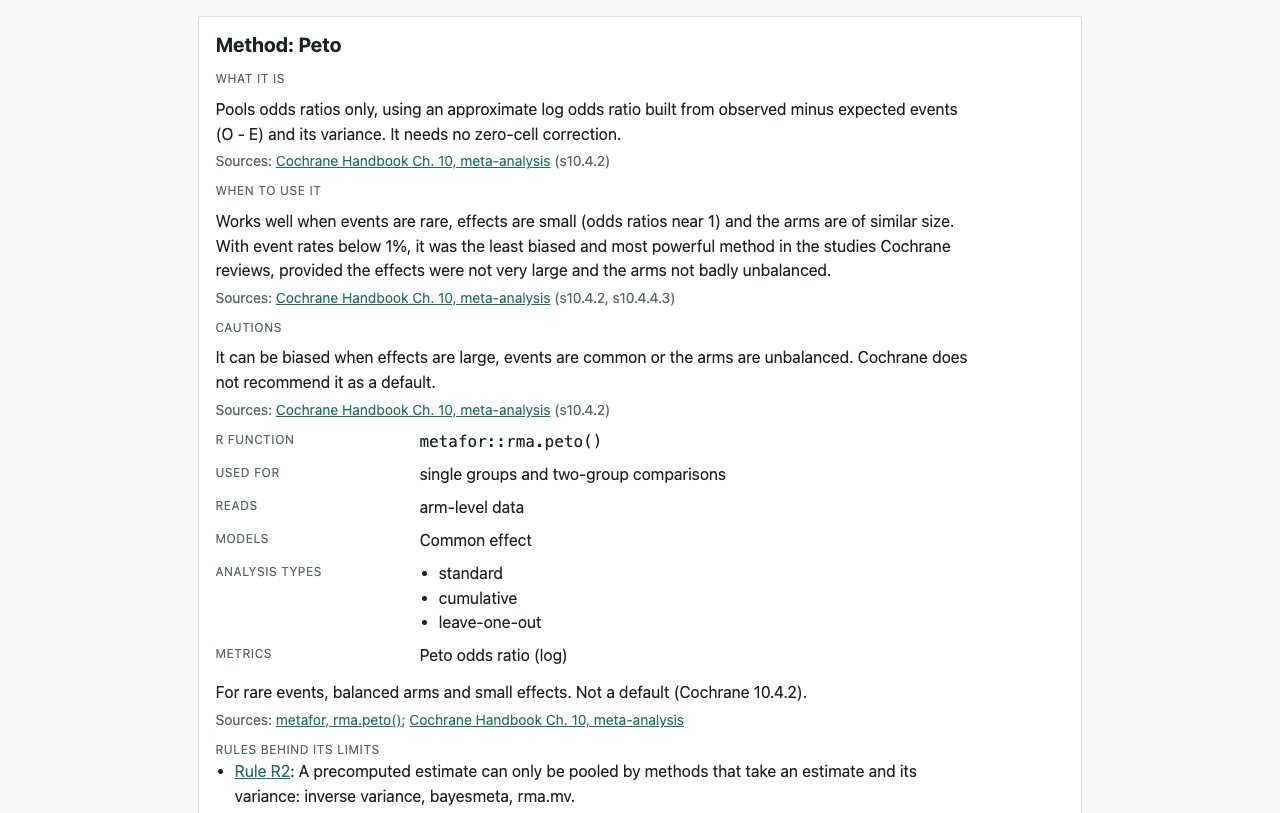
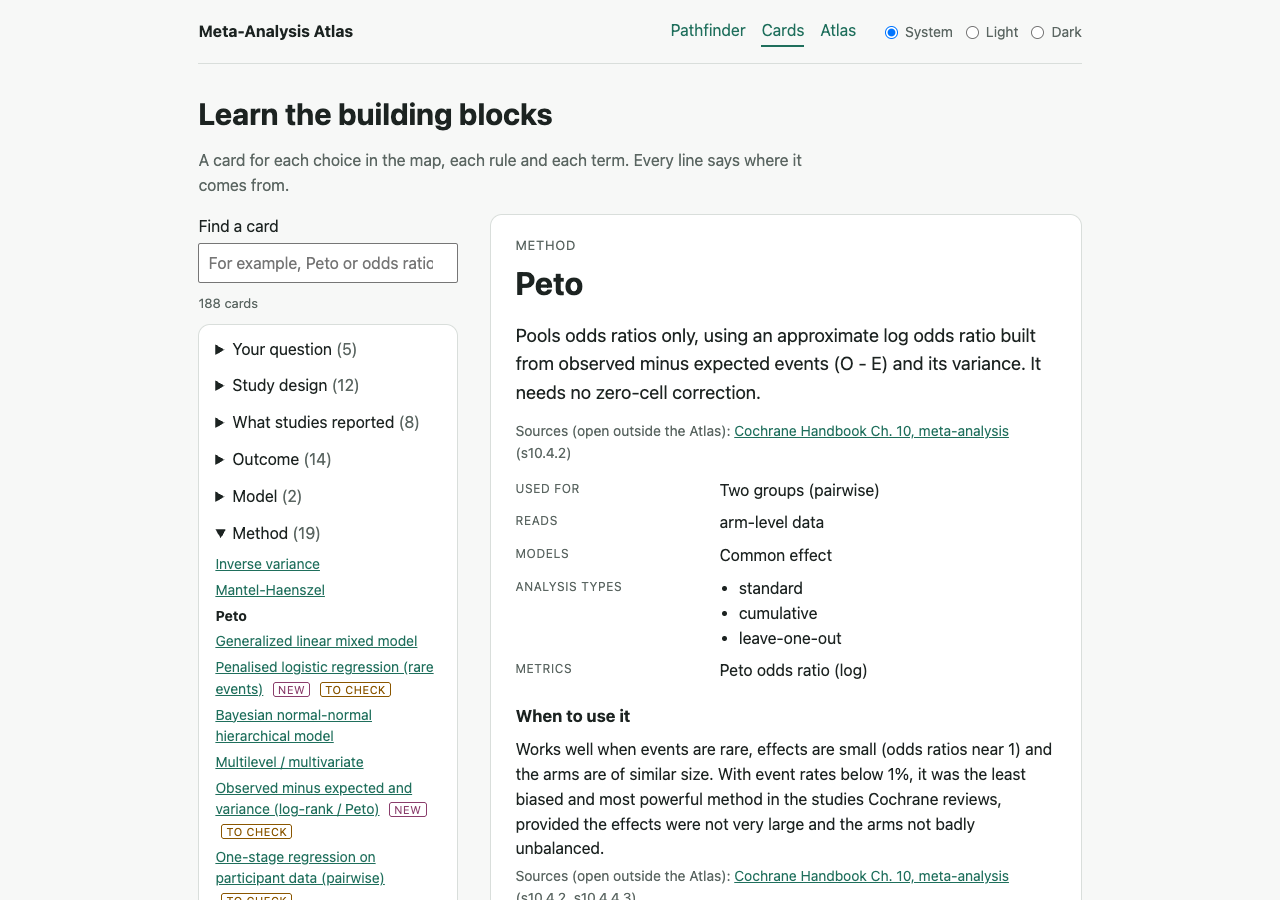
docs: release 0.1.1, the changelog, and the README and screenshots for the redesign (#107)
* docs: release 0.1.1, the changelog, and the README and screenshots for the redesign

* docs: the README states the glossary size again (its test checks it)

---------

Changed region(s): [[0.1562, 0.0308, 0.8125, 1.0], [0.5312, 0.0, 0.8438, 0.0615]]

diff --git a/README.md b/README.md
@@ -32,38 +32,43 @@ published worked example or the R package run on the same data
 
 ## The apps
 
-**Atlas** shows every pathway, one layer per tier. Choosing a node keeps only
-the pathways through it, and every node shows how many would remain. A node
-that doesn't fit your choices says why, citing the rule or source behind it
-where there is one. The 2D
-view works with the keyboard and screen readers; a 3D view shows the same
-nodes and counts as stacked rings you can turn.
+**Pathfinder** asks up to six questions, one at a time, in a methodologist's
+order: the kind of question, what each study compares, what it reported, and
+the outcome. Each option is named in plain words, with an example and its
+source; a switch shows the technical names. Options the map rules out say
+why. For binary outcomes from arm-level counts, compared between two groups or
+across a network, it asks whether events are rare, and when both models fit
+it asks whether true effects are expected to differ. Neither answer removes a
+pathway ([why](docs/decisions/0005-pathfinder-advisory-questions.md)). The
+side panel shows the answers so far as a path on a small, read-only 3D map.
 
-![The Atlas in 2D, with the interventional framework and two-group studies chosen](docs/screenshots/atlas-2d.png)
+![Pathfinder after two answers, asking what each study reported](docs/screenshots/pathfinder.png)
 
-![The Atlas in 3D: the seven tiers as stacked rings](docs/screenshots/atlas-3d.png)
+The results come answer first: how many analyses fit, then the advice the
+answers asked for, then the analyses grouped by method. Each method opens to
+what its card says, its effect measures, its status and its sources.
 
-**Pathfinder** asks a few questions in a methodologist's order: the kind of
-question, what each study compares, what it reported, and the outcome. Each
-option says what it is, with its source, where its card has that text, and
-options the map rules out say why. For binary outcomes from arm-level counts,
-compared between two groups or across a network, it asks whether events are
-rare, and when both models
-fit it asks whether true effects are expected to differ. Neither answer
-removes a pathway: they show what the cards say, and pre-select a model with
-the other one click away ([why](docs/decisions/0005-pathfinder-advisory-questions.md)).
-Its answers are shared with the Atlas.
+![Pathfinder's results for a two-group binary outcome](docs/screenshots/results.png)
 
-![Pathfinder after three answers, asking about the outcome](docs/screenshots/pathfinder.png)
-
-**Cards** gives every choice and rule a card. A choice's card says what it
-is, when to use it and its cautions, each line with its source, then the R
-function, the data it reads and the rules that limit it, with the card's
-sources. A rule's card shows the rule and its sources. A choice's card has no
-teaching text where no source that covers it has been read yet. A glossary of
-14 terms is linked from the cards that use them.
+**Cards** gives every choice, rule and glossary term a card. A choice's card
+says what it is, then when to use it and its cautions, each line with its
+source, then the R call, the rules behind its limits (each in plain words) and
+the terms it uses, which open on the card. A choice's card has no teaching
+text where no source that covers it has been read yet. A glossary of 14 terms is
+linked from the cards that use them.
 
 ![The card for Peto's method](docs/screenshots/cards.png)
+
+**Atlas** shows every pathway as a 3D map: one layer per tier, with lines
+joining the nodes that go together. Drag to turn it, scroll to zoom; the
+arrow keys and + and - work too. Clicking a node keeps only the pathways
+through it, and again undoes it. A grey node says why it doesn't fit, citing
+the rule or source behind it where there is one. Beside the map, a read-only
+panel shows what was clicked and the options at the next step. A text view
+lists the same nodes and counts for screen readers and the keyboard, and is
+used where 3D can't be drawn.
+
+![The Atlas: the 3D map with two choices made, and the panel beside it](docs/screenshots/atlas-3d.png)
 
 ## How the map is built
 
@@ -141,7 +146,7 @@ including changes to the methodology. The rules are in
 
 | Release | Scope |
 |---|---|
-| v0.1 | The map with all five frameworks; Atlas (2D and 3D), Pathfinder and Cards |
+| v0.1 | The map with all five frameworks; Atlas (3D, with a text view), Pathfinder and Cards |
 | v0.2 | Running analyses on your own data or on published examples, with the exact R code shown; one-group and two-group metafor pathways made runnable through validation tests |
 | v0.3 | Network meta-analysis, Bayesian and multilevel models |
 | v0.4 | Diagnostic accuracy, prognosis, and a methods advisor |

diff --git a/CHANGELOG.md b/CHANGELOG.md
@@ -4,6 +4,56 @@ Each release lists what changed, with the pull requests behind it. The map
 itself changes only through audited pull requests, and each map change
 explains its effect on the pathways.
 
+## 0.1.1 (2026-11-18)
+
+A redesign for first-time visitors (#92), and four corrections to the
+map's teaching text. The pathways are unchanged: 564, of which 404 are
+planned, 61 specified and 99 to check. Nothing is runnable yet.
+
+### Home and Pathfinder
+
+- **Home page:** one promise and three doors, each saying where it goes and
+  who it is for (#94).
+- **Pathfinder** asks one question at a time, with a step bar that holds the
+  answers, and Back and Next buttons that say where they go (#95).
+- **Plain names:** the options are named in plain words, each with an
+  example and its source. A switch shows the technical names (#96).
+- **Results, answer first:** how many analyses fit, any advice on rare events,
+  then a model filter that says why it shows what it shows. The analyses are
+  grouped by method, each opening to its card text and sources (#97).
+- **Small map:** the side panel shows the answers so far as a path on a small,
+  read-only 3D map (#104).
+
+### Cards
+
+- **Layout:** the list of cards sits beside the open card, grouped as
+  Pathfinder asks its questions (#98).
+- **Answer first:** a card opens with what it is, then when to use it, its
+  cautions, the R call, the rules behind its limits, and the terms it uses.
+  A term opens in place, on the card (#98).
+- **Rules in plain words:** each rule has a plain sentence, citing the rule's
+  own sources (#99, #101).
+
+### Atlas
+
+- **3D first:** the Atlas opens on the 3D map, as in the prototype, with lines
+  joining the nodes that go together (#102).
+- **Handles like Google Earth:** it stays still until moved, and a drag glides
+  to a stop. Scroll to zoom towards the pointer, or pinch to zoom. The arrow
+  keys turn it and + and - zoom; with Ctrl or Cmd, those keys still zoom the
+  page (#103).
+- **Read-only panel:** beside the map, a panel follows the clicks. It shows
+  what was clicked, the options at the next step, and the choices so far.
+  The settings fold into "Display options", and the 2D view is now the text
+  view, used where 3D can't be drawn (#103).
+
+### The map's teaching text
+
+- "Why not?" for Mantel-Haenszel with random effects also cites rule R4 (#105).
+- R24 says combining groups is recommended in most situations (#106).
+- R25 says the fixed-effect-only limit for O - E and V data is RevMan's,
+  which the map follows (#106; decision 0007).
+
 ## 0.1.0 (2026-11-17)
 
 The first release: the map of analysis pathways, and three apps to explore
